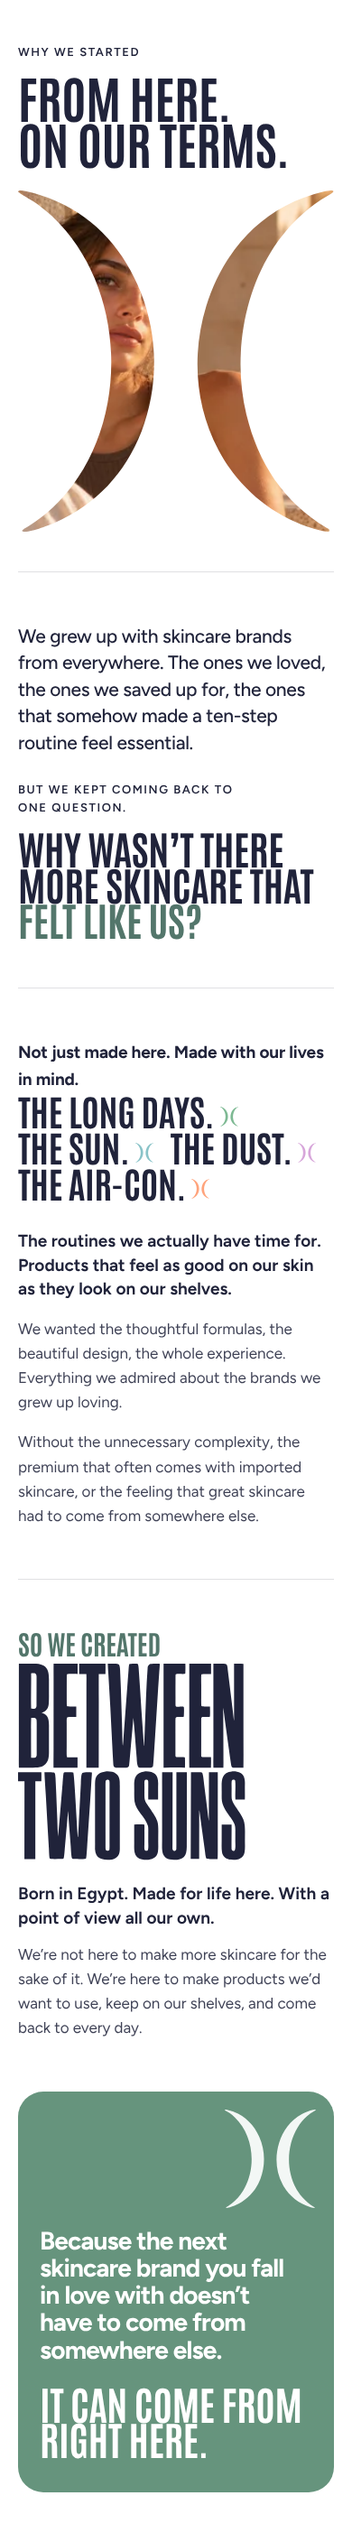
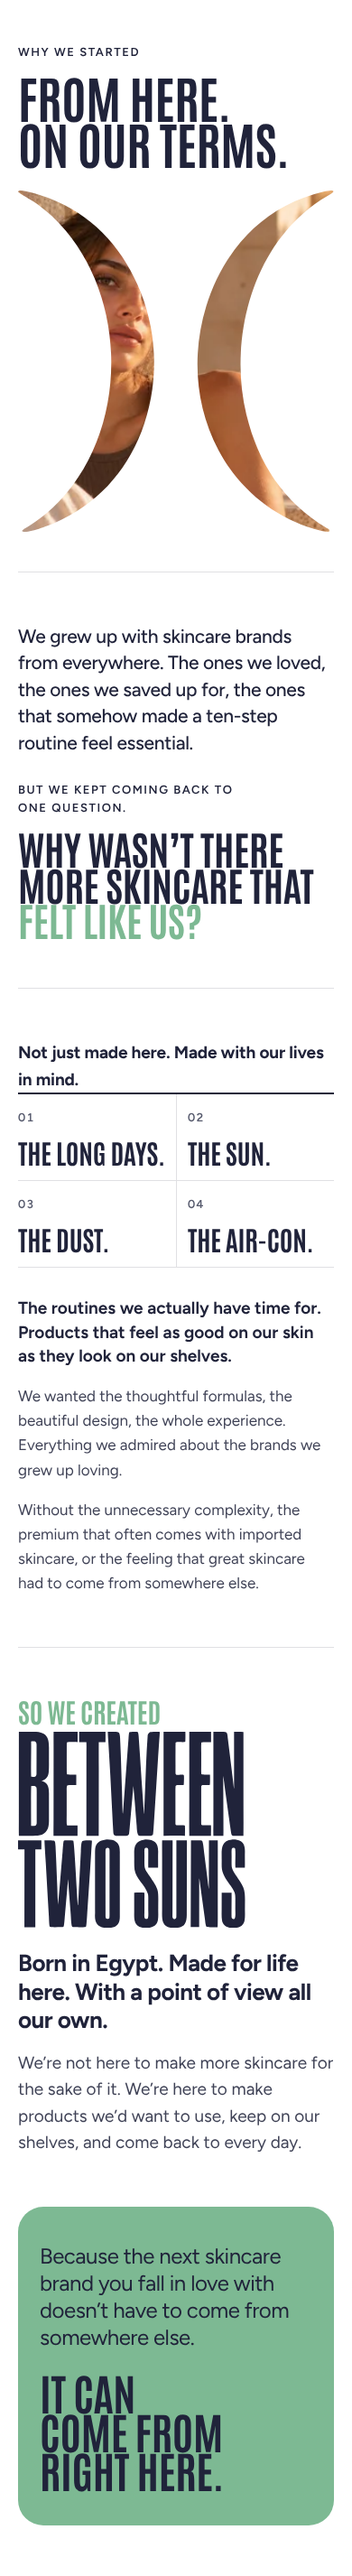
About compact story: owner's real-store notes round 2 (DECISIONS 362)
Claude-Session: https://claude.ai/code/session_01LtDGGg3Ak7XqciGhd3kvRD

diff --git a/DECISIONS.md b/DECISIONS.md
@@ -1445,3 +1445,4 @@ Each entry: decision · why · reversibility. Newest last.
 359. **About page V9 (owner's "About page V9" brief) — built and checked locally; upload to Version 1.2 not done (the owner declined the upload step).** New sections: `about-story4` (01 ambition: display title clamp(64–152px) in a 1280px frame, the )( mark with the terrace portrait, headline reveal then mask, gentle scroll drift · 02 personal context: 12-col spread, paragraph revealed sentence by sentence beside a 4:5 photo offset 80px (stand-in: bts-portrait-window-tall) · 03 the question: centred, three fixed lines, "felt like us?" emphasised, eyebrow now "But we kept coming back to one question." · 04 life here: the four phrases as one compact row / 2×2 on phones with step-colour marks, staggered 100ms, rest of the passage in two columns · 05 the answer: background turns white→ink, large )( symbol, "So we created" + the real wordmark (inline brand SVG), the two lines, the four approved front packshots linking to the products, then the closing sentence and sign-off) and `about-note` (founders' note on soft lilac, the owner's draft copy EN + feminine Egyptian AR, signed "The founders of Between Two Suns"; no names; left side is a brand panel until a real founders' photo is picked — no stand-in person). New keys `about4.*`. templates/page.about8.json order: sky, story (about-story4), note, routine, made, rules, close (empty founder section removed). Word-by-word fading dropped (brief: sentences, no pale end states). Checked 1440/768/390/360, EN+AR, no sideways scroll; theme-check 0; spacing 183/188 (known). Open issues: the routine shelf right after repeats the four products; both photos are stand-ins (two similar women); founders' photo/names pending. Recordings review/about-v9-*.mp4.
 360. **About story "compact" — local mock-up after the owner's real-store notes on about8 (about-story3).** Owner: first section too big; too much white space, doesn't flow; paragraph + question should be one section; the four-phrase staircase "looks weird" (it was also caught half-faded by the word fill); the right-column text left a white void; "So we created" ok but should look cooler; the close band: no navy, use mint or lilac with white text, the inline mark looked awkward. New `about-story5` (copy unchanged): title + mark side by side (laptop) in one screen; paragraph left + question right in one section ("felt like us?" in deep mint); the four phrases as one bold display line with step-colour marks, the rest of the passage directly under in two columns; "So we created" + the real wordmark with the two lines beside it; the close on a mint panel (step-1 mixed 25% with ink so white text passes large-text contrast) with the )( mark as a big white shape on the side. No word-by-word fading; a short rise per block. Local only: templates/page.about11.json; review/about-compact-*. The V9 build (about-story4 + about-note, DECISIONS 359) stays local, not used.
 361. **About "compact" story pushed to Version 1.2 (owner: "Ok").** `?view=about8` now uses `about-story5`; template order sky, story, routine, made, rules, close (the empty founder section dropped from this demo template). Uploaded in order: locales/en.default.json 6e1c4459…, locales/ar.json de38061a… (adds the about4.* keys), sections/about-story5.liquid 3df28ca7…, templates/page.about8.json b1255c19…; remote checksums matched the previous upload before overwriting; live index MD5 unchanged. Theme-check 0.
+362. **About compact story, owner's second real-store round (Version 1.2, `?view=about8`).** Opening paragraph and question fill word by word from pale to full as she scrolls ("like we used to"); all mint is now the footer's exact colour `--c-step-1` (#7DB993): "felt like us?", "So we created", and the closing panel. Four phrases: brand marks removed; now a clean four-column row (2×2 on phones) with small 01–04 numbers between rules, no wrapping in English, Arabic allowed to wrap. "So we created" text on the right is bigger (lead 26–38px, body 19–23px). Closing panel: footer mint, ink text like the footer (white on this mint is below readable contrast), the top sentence regular weight and only the sign-off bold, side marks removed. sections/about-story5.liquid d442145c… uploaded and checksum-verified; live index MD5 unchanged. Verified on the real store for the first time: logged in with the storefront password (from the owner at runtime, kept out of the repo) via curl cookie POST to /password, fetched `/pages/about?view=about8&preview_theme_id=168818671874` EN + AR — new markup present, spaces intact, no Liquid errors. (A Playwright real-store run is blocked here: it would need TLS errors ignored behind the proxy.)

diff --git a/CLAUDE.md b/CLAUDE.md
@@ -4,7 +4,7 @@ You are continuing a long-running build. This file is the handover: who the owne
 what was done and why, and exactly what to do next. **DECISIONS.md** (numbered log, newest at the bottom) and **STATUS.md**
 (current state, restore points, launch checklist) hold the detail; this file tells you how to use them.
 
-**Next DECISIONS entry number: 362.** Add one entry per round of work and keep STATUS.md current.
+**Next DECISIONS entry number: 363.** Add one entry per round of work and keep STATUS.md current.
 
 ---
 
